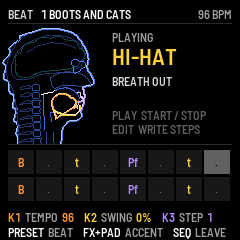
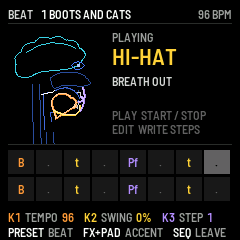
update human shapes

Changed region(s): [[0.0, 0.1167, 0.4083, 0.6125], [0.2333, 0.4667, 0.35, 0.6125]]

diff --git a/app/app.c b/app/app.c
@@ -1591,11 +1591,9 @@ static void snap_store(int i)
 }
 
 /* ---------------------------------------------------------------- the head --- */
-/* The head side on, as the anatomy's frame gives it (ch_profile.c, CHIMERA's outlines), redrawn in FMB Vocal's own
- * look: a fuller dome and a subtle mane after the chimera's lion on Greek vases (head_restyle, in place of the
- * engine's cranium), gyri on the brain, the neck's
- * vertebrae as an X-ray shows them, a plain round eye; the head in its body's colour, the moving parts in theirs.
- * The engine's files stay as they are (fm-1-chimera-vocal's pulls). */
+/* The head side on, as the anatomy's frame gives it (ch_profile.c, CHIMERA's outlines), drawn in FMB Vocal's own
+ * look: no outline, the brain (its gyri, the cores' load its colour), the spine as two lines, the airway and the moving
+ * parts each in its colour. The engine's files stay as they are (fm-1-chimera-vocal's pulls). */
 #include "ch_profile.h"
 static ch_profile_t prof PLAT_POOL;
 static void text_cat(char *d, const char *s);
@@ -1690,83 +1688,6 @@ static void beam(const ch_v2 *p, int n, int closed, int32_t y0, uint16_t c, uint
     poly_line(p, n, closed, y0, core);
 }
 
-/* ---- the outline: the cranium redrawn (body cm; built once per new pose, after ch_profile_build). After the lion's
- * head of the chimera on Greek red-figure vases, turned to face right and kept human: a smooth crown, and a subtle
- * mane of locks down the back of the head and the neck, its inner edge a softer line inside ---- */
-#define CRAN_TAIL 36                          /* ch_profile.c's cranium: 10 points at 4 a span, the skin's last 36 */
-#define SKIN_MAX ((int)(sizeof prof.skin / sizeof prof.skin[0]))
-#define MANE_PER 6                            /* the mane's spline: points a span */
-#define MANE_N 28                             /* its inner edge: every second point */
-static ch_v2 mane_in[MANE_N];                 /* the mane's inner edge (the head's line under the locks) */
-static int n_mane_in;
-
-static ch_v2 tmpl(const ch_tract_t *t, float x, float y)   /* the template's cm to the body's (ch_profile.c's B) */
-{
-    ch_v2 r;
-    r.x = x * t->k;
-    r.y = (y < 7.0f ? 7.0f - (7.0f - y) * t->pharynx : y) * t->k;
-    return r;
-}
-
-static int skin_add(int n, ch_v2 q)
-{
-    if (n < SKIN_MAX)
-        prof.skin[n++] = q;
-    return n;
-}
-
-static void head_restyle(const ch_tract_t *t)
-{
-    /* the forehead up to the crown, then the crown, the back of the head and the neck (template cm) */
-    static const float FRONT[3][2] = {{6.9f, 20.5f}, {4.9f, 22.8f}, {1.9f, 23.85f}};
-    static const float BACK[10][2] = {{1.9f, 23.85f}, {-1.6f, 23.9f}, {-5.2f, 22.3f}, {-7.3f, 20.0f}, {-9.0f, 15.6f},
-                                      {-8.6f, 11.9f}, {-7.5f, 8.9f}, {-6.85f, 4.8f}, {-6.6f, 0.0f}, {-6.6f, -4.6f}};
-    ch_v2 cp[10], out[(10 - 1) * MANE_PER + 1];
-    const float k = t->k, amp = 0.95f * k, locks = 9.0f;
-    float len = 0, s = 0, mane_from = -1;
-    int i, n, m;
-    if (prof.n_skin <= CRAN_TAIL)
-        return;
-    n = prof.n_skin - CRAN_TAIL;              /* (the face's last point: the forehead's top, FRONT's first) */
-    for (i = 0; i < 3; i++)
-        cp[i] = tmpl(t, FRONT[i][0], FRONT[i][1]);
-    m = ch_catmull_rom(cp, 3, 4, out);
-    for (i = 1; i < m; i++)
-        n = skin_add(n, out[i]);
-    /* the back, and its locks: each pushed out from the line (away from the head), a slow rise to its tip and a quick
-     * fall, so they hang back and down; from behind the crown to the neck, fading in and out */
-    for (i = 0; i < 10; i++)
-        cp[i] = tmpl(t, BACK[i][0], BACK[i][1]);
-    m = ch_catmull_rom(cp, 10, MANE_PER, out);
-    for (i = 1; i < m; i++) {
-        const float dx = out[i].x - out[i - 1].x, dy = out[i].y - out[i - 1].y;
-        len += fm_sqrtf(dx * dx + dy * dy);
-        if (mane_from < 0 && out[i].x < -3.0f * k)
-            mane_from = len;
-    }
-    n_mane_in = 0;
-    for (i = 1; i < m; i++) {
-        const ch_v2 *a = &out[i - 1], *b = &out[i + 1 < m ? i + 1 : i];
-        const float dx = out[i].x - out[i - 1].x, dy = out[i].y - out[i - 1].y;
-        float tx = b->x - a->x, ty = b->y - a->y, tl, u, f, h, run;
-        ch_v2 q = out[i];
-        s += fm_sqrtf(dx * dx + dy * dy);
-        tl = fm_sqrtf(tx * tx + ty * ty);
-        run = mane_from < 0 ? 0 : (s - mane_from) / (len - mane_from);   /* 0..1 along the mane */
-        if (run > 0 && tl > 0) {
-            u = run * locks - fm_floorf(run * locks);                     /* within a lock */
-            f = u < 0.72f ? u / 0.72f : (1.0f - u) / 0.28f;
-            h = amp * f * fm_clampf(run * 8.0f, 0, 1) * fm_clampf((1.0f - run) * 4.0f, 0, 1);
-            q.x += (ty * h + tx * 0.5f * h) / tl;   /* (the line runs down the back: (ty, -tx) points away from the */
-            q.y += (-tx * h + ty * 0.5f * h) / tl;  /*  head; along it, so each lock's tip trails down like a flame) */
-        }
-        n = skin_add(n, q);
-        if (run > 0 && (i & 1) && n_mane_in < MANE_N)
-            mane_in[n_mane_in++] = out[i];
-    }
-    prof.n_skin = n;
-}
-
 /* a closed outline with bumps along it where it is above y_lo (the brain's gyri): pushed out from its centre */
 static void bumpy(const ch_v2 *p, int n, float amp, float bumps, float y_lo, int32_t y0, uint16_t c)
 {
@@ -1848,8 +1769,8 @@ static void vertebra(const ch_v2 *v, int k, int nv, int32_t y0, uint16_t bone, u
 }
 
 /* the brain shows the two cores at work (stat_update: their average over the last half second, %): the second core's
- * load (the airway) its colour, cyan idle through green and yellow to red at 85 % (the room the voice needs); the
- * first core's (the control) its brightness */
+ * load (the airway) its colour, cyan idle through green and yellow to red at 85 % (the room the voice needs), its
+ * outline as bright as the head's other lines; the first core's (the control) its fill, the busier the more opaque */
 static uint8_t brain_c2, brain_c1;
 #ifdef PLAT_HOST
 static uint8_t host_loads;                   /* (the simulator: "loads C2 C1" given) */
@@ -1860,7 +1781,7 @@ static rgb8_t brain_hue(void)
         float at;
         rgb8_t c;
     } STOP[4] = {{0, {0x3f, 0xd0, 0xe0}}, {40, {0x2e, 0xc2, 0x7e}}, {65, {0xff, 0xd2, 0x3f}}, {85, {0xff, 0x4d, 0x4d}}};
-    const float l2 = (float)brain_c2, lit = 0.35f + 0.65f * fm_clampf((float)brain_c1 / 70.0f, 0, 1);
+    const float l2 = (float)brain_c2;
     rgb8_t o = STOP[3].c;
     int i;
     for (i = 0; i < 3; i++)
@@ -1871,10 +1792,76 @@ static rgb8_t brain_hue(void)
             o.b = (uint8_t)((float)STOP[i].c.b + f * (float)(STOP[i + 1].c.b - STOP[i].c.b));
             break;
         }
-    o.r = (uint8_t)((float)o.r * lit);
-    o.g = (uint8_t)((float)o.g * lit);
-    o.b = (uint8_t)((float)o.b * lit);
     return o;
+}
+
+/* the brain's fill: its outline's colour at BRAIN_FILL_MAX of it (over the black) when the first core is at
+ * BRAIN_FILL_AT % or more, none when idle; filled row by row between the outline's crossings */
+#define BRAIN_FILL_AT 70.0f
+#define BRAIN_FILL_MAX 0.6f
+static void brain_fill(int32_t y0, rgb8_t c)
+{
+    const float a = BRAIN_FILL_MAX * fm_clampf((float)brain_c1 / BRAIN_FILL_AT, 0, 1);
+    const int n = prof.n_brain;
+    float top = 1e9f, bot = -1e9f;
+    int32_t y, ya, yb;
+    int i;
+    if (a < 0.02f || n < 3)
+        return;
+    for (i = 0; i < n; i++) {
+        top = fm_minf(top, HEAD_Y(prof.brain[i].y));
+        bot = fm_maxf(bot, HEAD_Y(prof.brain[i].y));
+    }
+    ya = (int32_t)top;
+    yb = (int32_t)bot;
+    for (y = ya; y <= yb; y++) {
+        float xs[16];
+        const float sy = (float)y + 0.5f;
+        int m = 0, j, k;
+        for (i = 0; i < n && m < 16; i++) {   /* where the row crosses the outline's edges */
+            const ch_v2 *p = &prof.brain[i], *q = &prof.brain[(i + 1) % n];
+            const float py = HEAD_Y(p->y), qy = HEAD_Y(q->y);
+            if ((py <= sy) != (qy <= sy))
+                xs[m++] = HEAD_X(p->x) + (sy - py) / (qy - py) * (HEAD_X(q->x) - HEAD_X(p->x));
+        }
+        for (j = 1; j < m; j++)               /* (a few: in order by insertion) */
+            for (k = j; k > 0 && xs[k - 1] > xs[k]; k--) {
+                const float t = xs[k];
+                xs[k] = xs[k - 1];
+                xs[k - 1] = t;
+            }
+        for (j = 0; j + 1 < m; j += 2) {
+            const int32_t x0 = (int32_t)(xs[j] + 0.5f), x1 = (int32_t)(xs[j + 1] + 0.5f);
+            if (x1 > x0)
+                cv_rect(x0, y - y0, x1 - x0, 1, RGB((int)((float)c.r * a), (int)((float)c.g * a), (int)((float)c.b * a)));
+        }
+    }
+}
+
+/* the eye as last decided (eye_state): its openness 0 (shut) .. EYE_STEPS (open), EYE_RED added when it is red */
+#define EYE_STEPS 8u
+#define EYE_RED 16u
+static uint8_t eye_drawn = EYE_STEPS;
+
+static void draw_eye(int32_t y0, rgb8_t hue)
+{
+    static const rgb8_t RED = {0xff, 0x4d, 0x4d};
+    const float open = (float)(eye_drawn & (EYE_RED - 1u)) / (float)EYE_STEPS;
+    const rgb8_t c = (eye_drawn & EYE_RED) ? RED : hue;
+    const float cx = prof.eye_c.x - 0.55f * prof.eye_rx, cy = prof.eye_c.y;   /* (a little back from the brow) */
+    const float rx = prof.eye_rx * 1.3f, ry = prof.eye_rx * 0.8f * open;
+    ch_v2 e[24];
+    int i;
+    for (i = 0; i < 24; i++) {              /* an almond: the lids meet in points at the corners; shut, a line */
+        const float an = 6.2831853f * (float)i / 24.0f, sn = fm_sinf(an);
+        e[i].x = cx + rx * fm_cosf(an);
+        e[i].y = cy + ry * sn * fm_fabsf(sn);
+    }
+    poly_line(e, 24, 1, y0, shade(c, 100));
+    if (open > 0.6f) {                      /* the pupil */
+        const int32_t px = (int32_t)HEAD_X(cx + 0.15f * rx), py = (int32_t)HEAD_Y(cy) - y0;
+        cv_rect(px - 1, py - 1, 3, 3, hot(c));
+    }
 }
 
 /* the head (prof) on the canvas, whose top is screen row y0 */
@@ -1882,30 +1869,32 @@ static void draw_head(int32_t y0)
 {
     const rgb8_t hue = head_hue();
     const uint16_t c_hi = shade(hue, 85), c_mid = shade(hue, 62), c_dim = shade(hue, 42);
-    ch_v2 e[24];
-    int i;
-    /* the body's structure, in its colour: the skull's inner table, the brain and its gyri, the spine */
-    poly_line(prof.skull, prof.n_skull, 1, y0, c_dim);
+    ch_v2 sp[2][18];
+    int i, n = 0;
+    /* no outline (no skin, skull or eye): the brain and its gyri, the spine as two lines (its front and back), the
+     * airway and the moving parts */
+    (void)c_dim;
+    brain_fill(y0, brain_hue());
     bumpy(prof.brain, prof.n_brain, 0.62f * prof.eye_rx / 1.1f, 11.0f, prof.eye_c.y, y0, shade(brain_hue(), 100));
-    poly_line(prof.sulcus, prof.n_sulcus, 0, y0, c_dim);
-    for (i = 0; i < prof.n_vertebrae; i++)
-        vertebra(prof.vertebrae[i], i, prof.n_vertebrae, y0, c_mid, c_dim);
+    poly_line(prof.sulcus, prof.n_sulcus, 0, y0, shade(brain_hue(), 100));
+    for (i = 0; i < prof.n_vertebrae && n + 2 <= 18; i++) {   /* (bottom to top: each box's [0] top back, [1] bottom front) */
+        const ch_v2 *v = prof.vertebrae[i];
+        sp[0][n].x = v[0].x; sp[0][n].y = v[1].y;
+        sp[1][n].x = v[1].x; sp[1][n].y = v[1].y;
+        sp[0][n + 1].x = v[0].x; sp[0][n + 1].y = v[0].y;
+        sp[1][n + 1].x = v[1].x; sp[1][n + 1].y = v[0].y;
+        n += 2;
+    }
+    poly_line(sp[0], n, 0, y0, c_mid);
+    poly_line(sp[1], n, 0, y0, c_mid);
     poly_line(prof.nasal, prof.n_nasal, 1, y0, c_mid);
     poly_line(prof.palate, 10, 0, y0, c_mid);
     poly_line(prof.trachea[0], 2, 0, y0, c_mid);
     poly_line(prof.trachea[1], 2, 0, y0, c_mid);
     poly_line(prof.upper_teeth, 5, 1, y0, T_HI);   /* (the teeth bone white) */
     poly_line(prof.lower_teeth, 7, 0, y0, T_HI);
-    for (i = 0; i < 24; i++) {              /* the eye: a rounded triangle, as the vases' lions have it, a corner forward */
-        const float an = 6.2831853f * (float)i / 24.0f;
-        const float r = prof.eye_rx * 1.25f * (1.0f + 0.27f * fm_cosf(3.0f * (an - 0.2f)));
-        e[i].x = prof.eye_c.x - 0.55f * prof.eye_rx + r * fm_cosf(an);   /* (a little back from the brow) */
-        e[i].y = prof.eye_c.y + r * fm_sinf(an);
-    }
-    poly_line(e, 24, 1, y0, shade(hue, 100));
-    /* the skin (with the mane) and the airway's walls, the body's colour at full */
-    beam(prof.skin, prof.n_skin, 0, y0, shade(hue, 100), hot(hue));
-    poly_line(mane_in, n_mane_in, 0, y0, c_dim);   /* (the mane's inner edge) */
+    draw_eye(y0, hue);
+    /* the airway's walls, the body's colour (a blend's mixed) */
     poly_line(prof.airway, prof.n_airway, 0, y0, c_hi);
     /* the moving parts, each its own colour: the tongue orange, the jaw yellow, the lips violet, the soft palate white */
     beam(prof.tongue, prof.n_tongue, 1, y0, shade(HUE_TONGUE, 100), hot(HUE_TONGUE));
@@ -4198,6 +4187,53 @@ static void home_init(void)
 }
 
 /* the head again if the voice's articulation moved (1: it was) */
+/* the eye: a blink now and then (every 2.5 to 6 s, 200 ms shut and open again); shut while the keys hold the voice past
+ * EYE_REST_MS (slowly, opening again when they let go), and red past EYE_RED_MS. Its state, EYE_STEPS steps of
+ * openness and the red: the screen is drawn again only when it changes */
+#define EYE_REST_MS 2000u
+#define EYE_RED_MS 10000u
+#define EYE_BLINK_MS 200u
+#define EYE_SHUT_MS 300u                      /* (closing and opening while held) */
+static uint32_t eye_seed = 0x2545f491u, eye_blink_at, eye_held_at, eye_let_go_at;
+static uint8_t eye_held, eye_rested;
+
+static uint8_t eye_state(uint32_t now)
+{
+    const int keys = voice_note >= 0 && !speaking && !bt.on && !sg.playing;   /* (the keys', not a tune's or PLAY's) */
+    float open = 1.0f;
+    int red = 0;
+    if (keys && !eye_held) {
+        eye_held = 1;
+        eye_held_at = now;
+    } else if (!keys && eye_held) {
+        eye_held = 0;
+        eye_rested = now - eye_held_at > EYE_REST_MS;
+        eye_let_go_at = now;
+    }
+    if (eye_held) {
+        const uint32_t t = now - eye_held_at;
+        if (t > EYE_REST_MS)
+            open = 1.0f - fm_clampf((float)(t - EYE_REST_MS) / (float)EYE_SHUT_MS, 0, 1);
+        red = t > EYE_RED_MS;
+    } else if (eye_rested) {
+        open = fm_clampf((float)(now - eye_let_go_at) / (float)EYE_SHUT_MS, 0, 1);
+        if (open >= 1.0f)
+            eye_rested = 0;
+    }
+    if (!eye_blink_at)
+        eye_blink_at = now + 3000u;
+    if ((int32_t)(now - eye_blink_at) >= 0) {
+        const uint32_t t = now - eye_blink_at;
+        if (t < EYE_BLINK_MS)
+            open = fm_minf(open, fm_fabsf((float)t - EYE_BLINK_MS / 2.0f) / (EYE_BLINK_MS / 2.0f));
+        else {
+            eye_seed = eye_seed * 1664525u + 1013904223u;   /* (the next one 2.5 to 6 s on) */
+            eye_blink_at = now + 2500u + (eye_seed >> 8) % 3500u;
+        }
+    }
+    return (uint8_t)((uint32_t)(open * (float)EYE_STEPS + 0.5f) | (red ? EYE_RED : 0u));
+}
+
 static int home_head_update(void)
 {
     float a[CH_NARTIC], d = 0.0f;
@@ -4213,7 +4249,6 @@ static int home_head_update(void)
         return 0;
     ch_tract_apply(&dtract, a, 0.0f);
     ch_profile_build(&dtract, &prof);
-    head_restyle(&dtract);
     for (k = 0; k < CH_NARTIC; k++)
         drawn_x[k] = a[k];
     head_at = now;
@@ -5270,6 +5305,13 @@ void app_frame(void)
     }
     if (!page_debug && !ed.on && home_head_update())   /* the voice moved: the head again */
         ui.redraw = 1;
+    if (!page_debug && !ed.on && body_cur != BODY_SEAL) {   /* the eye blinked, shut or opened, or turned red */
+        const uint8_t e = eye_state(now);
+        if (e != eye_drawn) {
+            eye_drawn = e;
+            ui.redraw = 1;
+        }
+    }
     if (body_cur == BODY_SEAL && !ed.on && !bt.on) {   /* the seal: its breath pulsing, ~20 times a second */
         static uint32_t seal_at;
         if (now - seal_at >= 50u && (seal_breath > 0.05f || cvoice.call >= 0 || plat_ms() - seal_played_at < 400u)) {
@@ -5486,6 +5528,8 @@ int app_expect(const char *what, int *got)
         *got = brain_c1;
     else if (!strcmp(what, "brainrgb"))      /* the brain's colour as drawn (0xRRGGBB) */
         *got = (int)((uint32_t)brain_hue().r << 16 | (uint32_t)brain_hue().g << 8 | brain_hue().b);
+    else if (!strcmp(what, "brainfill"))     /* the brain's fill, % opaque */
+        *got = (int)(100.0f * BRAIN_FILL_MAX * fm_clampf((float)brain_c1 / BRAIN_FILL_AT, 0, 1) + 0.5f);
     else if (!strcmp(what, "sealhz"))
         *got = (int)(cvoice.value[cre_pitch(CRE_DEF[cre_audio])] + 0.5f);
     else if (!strcmp(what, "sealgate"))

diff --git a/README.md b/README.md
@@ -67,9 +67,10 @@ elephant's airways join it.
   cursor); yellow a warning, red an error. The firmware, the Studio, the installer and the site share the same
   colours. The head, side on and live as it sings, is drawn in its body's colour (male blue, female red, child
   green, a blend mixed by its shares), its moving parts in theirs (the tongue orange, the jaw yellow, the lips violet,
-  the soft palate white): a subtle mane down the back of the head after the chimera's lion on Greek vases, gyri on
-  the brain, the neck's vertebrae as an X-ray shows them, and a rounded triangle of an eye. The brain shows the two cores at work: its colour the second
-  core's load (cyan idle to red at 85 %), its brightness the first core's. In the Bestiary each animal is traced side
+  the soft palate white), with no outline: gyri on the brain, the spine as two lines, and an eye that blinks, shuts
+  while a key holds the voice and turns red after ten seconds of it. The brain shows the two cores at work: its
+  colour the second core's load (cyan idle to red at 85 %), its fill the first core's (the busier, the more opaque).
+  In the Bestiary each animal is traced side
   on in its own colour, its airway lit inside it. Each knob has its own colour (K1 orange, K2 yellow, K3 violet,
   K4 cyan), and the beatbox colours its sounds by family.
 - **The Studio:** a web page that prepares the words (eight slots) with the CMU Pronouncing Dictionary, lets you try

diff --git a/app/docs/MANUAL.md b/app/docs/MANUAL.md
@@ -445,7 +445,9 @@ At the top: the page (SING 1/5 ... or VOWEL), the mode, the body and the preset;
 moving as it sings, in its body's colour (male blue, female red, child green, a blend mixed by its shares): the
 tongue orange, the jaw yellow, the lips violet, the soft palate white. Its brain shows the FM-1's two processor cores
 at work: its colour the second core's load (the airway: cyan when idle, through green and yellow, to red at 85 %, the
-most the voice should use), its brightness the first core's (the control). They are read every half second, as the
+most the voice should use), its fill the first core's (the control: empty when idle, more opaque the busier it is, up
+to 60 % at 70 % load). The eye blinks now and then, shuts while a key holds the voice for more than two seconds, and
+turns red after ten. The loads are read every half second, as the
 debug page's CORE 2 and CORE 1 lines. Beside it in WORDS: NOW, the
 syllable sounding (a hyphen when its word goes on; SPEAKING while PLAY speaks), NEXT, the one the next key sings, and
 the word slot; in VOWEL: the vowel made and its formants. At the bottom: the page's four knobs.
